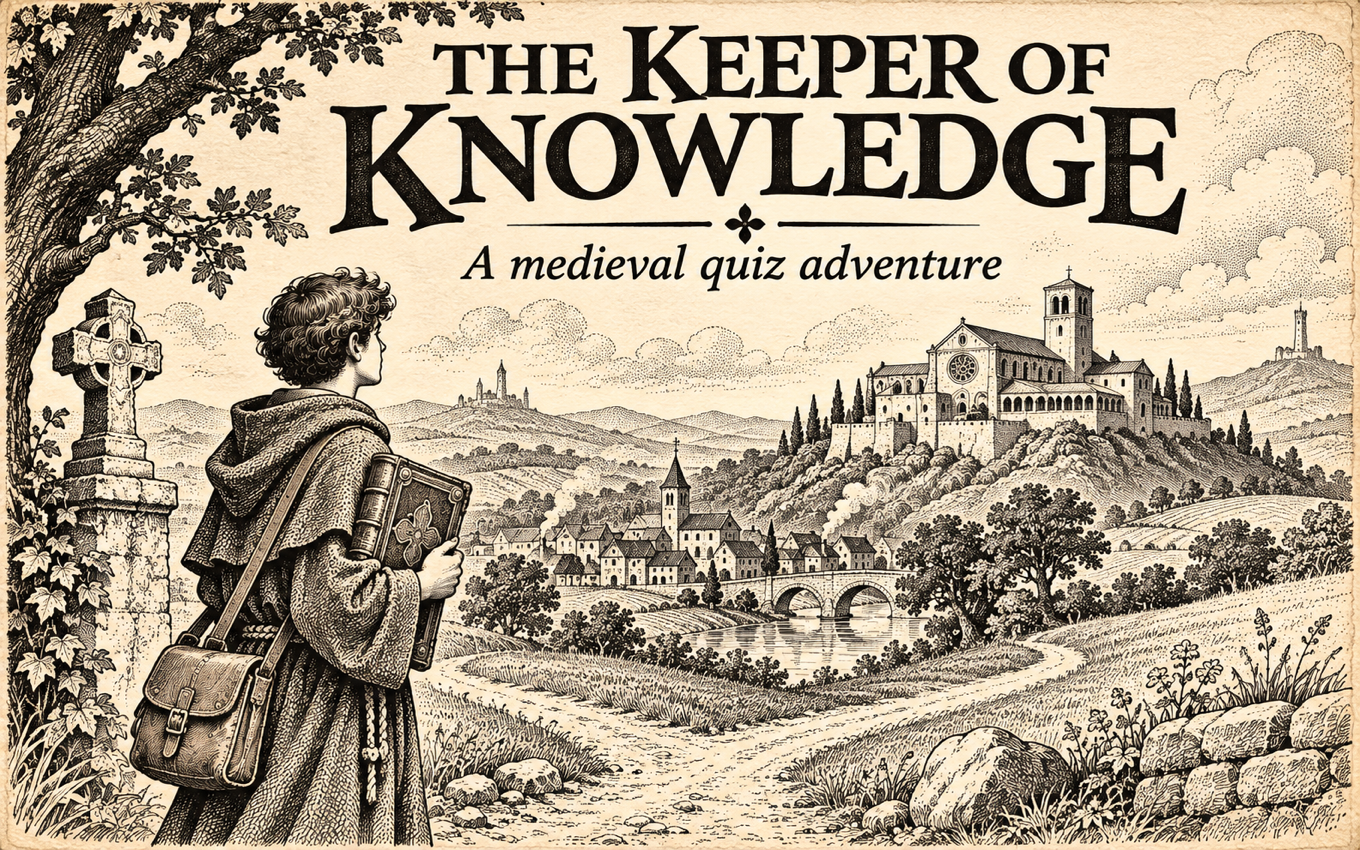
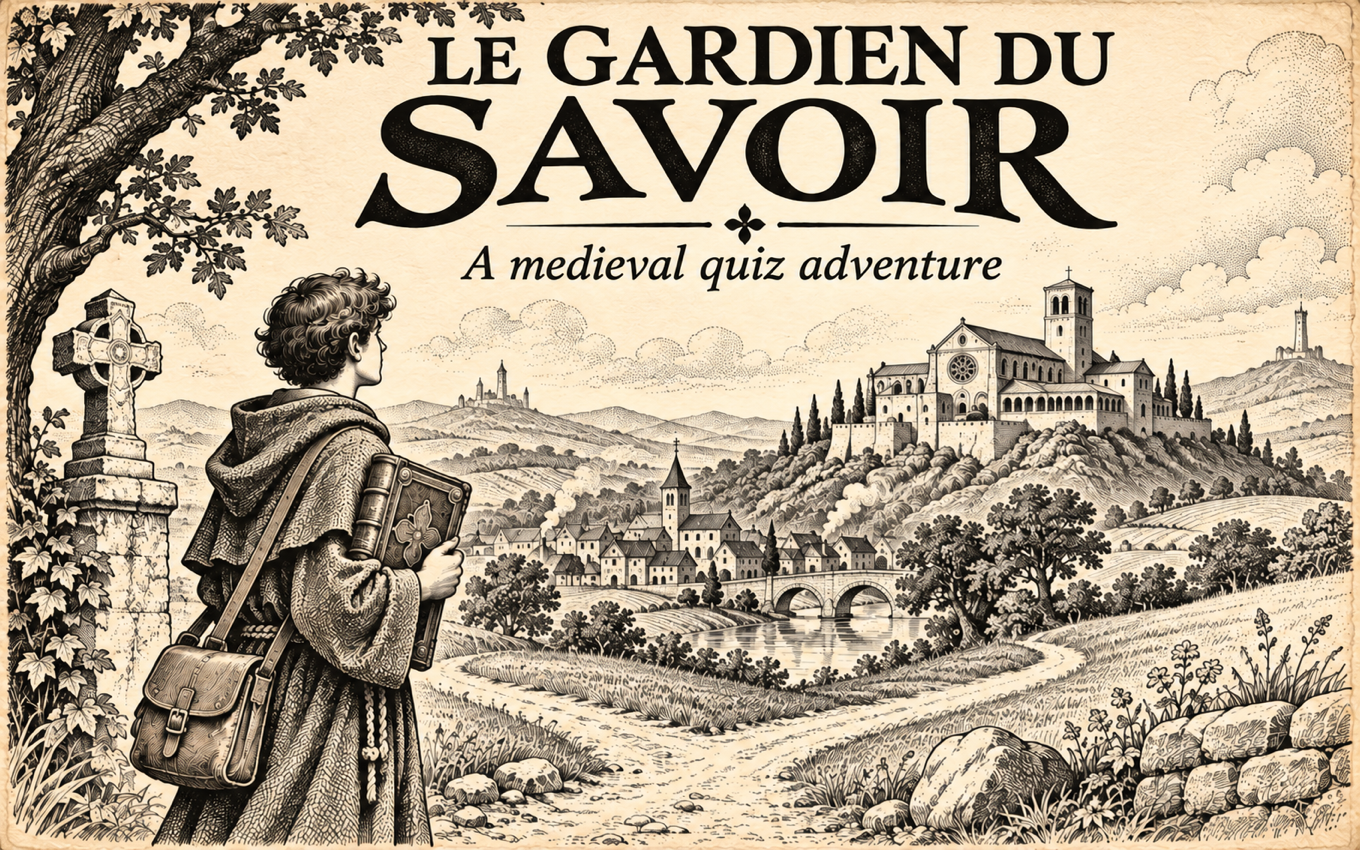
:hammer: Update game title and metadata to "Le Gardien du Savoir" across various files, ensuring consistency in the French localization.

diff --git a/Godot/addons/gpx-godot-plugin/index.html b/Godot/addons/gpx-godot-plugin/index.html
@@ -5,7 +5,7 @@
     <meta charset="utf-8">
     <meta name="viewport" content="width=device-width, initial-scale=1, maximum-scale=1, user-scalable=no" />
     <meta name="author" content="GamePix">
-    <title>The Keeper of Knowledge</title>
+    <title>Le Gardien du Savoir</title>
     <style>
         html,
         body {

diff --git a/gamepix/metadata.md b/gamepix/metadata.md
@@ -5,12 +5,12 @@
 - Build: `gamepix/build.sh` → `Exports/lgs-gamepix.zip` (index.html at root; only external URL is the official SDK)
 - Orientation: Landscape; fits resized iframes without cropping at 800×450
 - Default language: English
-- Official GamePix title: The Keeper of Knowledge
-- Current namespace: `le-gardien-du-savoir`; requested namespace: `the-keeper-of-knowledge` (requires GamePix intervention; no editable field in the dashboard).
+- Official GamePix title: Le Gardien du Savoir
+- Namespace: `le-gardien-du-savoir` (retained, matching the official title).
 - Main tag: Puzzle (alternatives: Trivia / Quiz, Adventure)
 
 ## Description
-The Keeper of Knowledge is a medieval point-and-click quiz adventure. Guide a young monk through towns, monasteries and the island of Histora. Meet unusual characters, collect useful objects and answer questions about science, history and culture. Earn Talents, find three Talismans and prove you are worthy to inherit the Great Book of Knowledge. Explore at your own pace, with English text and a built-in save slot.
+Le Gardien du Savoir is a medieval point-and-click quiz adventure. Guide a young monk through towns, monasteries and the island of Histora. Meet unusual characters, collect useful objects and answer questions about science, history and culture. Earn Talents, find three Talismans and prove you are worthy to inherit the Great Book of Knowledge. Explore at your own pace, with English text and a built-in save slot.
 
 ## Controls
 Desktop: click choices or the scenery to explore. Use the bag for inventory, the disk to save, and the angel for hints. Scroll text panels to read longer messages and answers. Mobile: tap to interact; play in landscape. Answer quizzes to earn Talents and collect the three Talismans. Resume your saved adventure from the main menu.
@@ -19,7 +19,7 @@ Desktop: click choices or the scenery to explore. Use the bag for inventory, the
 - Icon 256x256: `gamepix/icon-256.png`
 - Cover 1360x850: `gamepix/cover-1360x850.jpg`
 - Promotional images are original illustrated key art, not screenshots.
-- Official submission title: The Keeper of Knowledge; French original: Le Gardien du Savoir.
+- Official submission title: Le Gardien du Savoir.
 
 ## Resubmission QA
 - 2026-11-05: Withdrew the French-title resubmission at the owner's request. Restored `The Keeper of Knowledge` and resubmitted; portal confirmed `New release REVIEW`. Release notes request GamePix to change the namespace to `the-keeper-of-knowledge`, since the dashboard has no editable namespace field. Namespace migration remains pending GamePix action.
@@ -35,3 +35,7 @@ Desktop: click choices or the scenery to explore. Use the bag for inventory, the
[1 lines of base64/hex data omitted]
 
[1 lines of base64/hex data omitted]
+
[1 lines of base64/hex data omitted]
+
+- GamePix Preview verified for build `3LjQm1gDuHi9SqVJA1XFelrhg85`: corrected loading art and French menu title displayed; SDK reached LOADED. Draft remains `edit`, not submitted.
